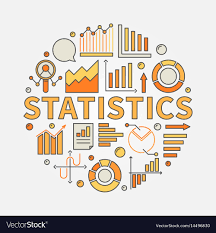
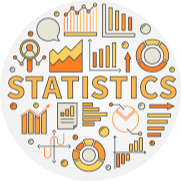
Added a new skill statistics.

diff --git a/index.html b/index.html
@@ -30,24 +30,30 @@
         <hr>
         <h2>My Skills</h2>
         <div class="sills_row">
-          <img class="sqlimage" src="images/sql.png" alt="sqlimage">
+          <img class="sqlimage" src="images/sql.png" alt="Sqlimage">
           <h5> Structured Query Language (SQL) </h5>
         </div>
 
         <div class="sills_row">
-          <img class="powerbi" src="images/powerBi.png" alt="powerbi">
+          <img class="powerbi" src="images/powerBi.png" alt="PowerBI">
           <h5> Data Visualization using powerBi </h5>
         </div>
 
         <div class="sills_row">
-          <img class="python" src="images/python.png" alt="python">
+          <img class="python" src="images/python.png" alt="Python">
           <h5> Python Programming Language </h5>
         </div>
 
         <div class="sills_row">
-          <img class="machine" src="images/ml.png" alt="python">
+          <img class="machine" src="images/ml.png" alt="Machine Learning">
           <h5> Machine Learning </h5>
         </div>
+
+        <div class="sills_row">
+          <img class="statistics" src="images/statistics.png" alt="Statistics">
+          <h5> Statistics </h5>
+        </div>
+
       </div>
     </div>
 

diff --git a/css/style.css b/css/style.css
@@ -94,6 +94,10 @@ overflow:auto;
   width: 3%;
 }
 
+.statistics{
+  width: 3%;
+}
+
 .education{
   text-align: center;
   background-color: #F7F7F7;
